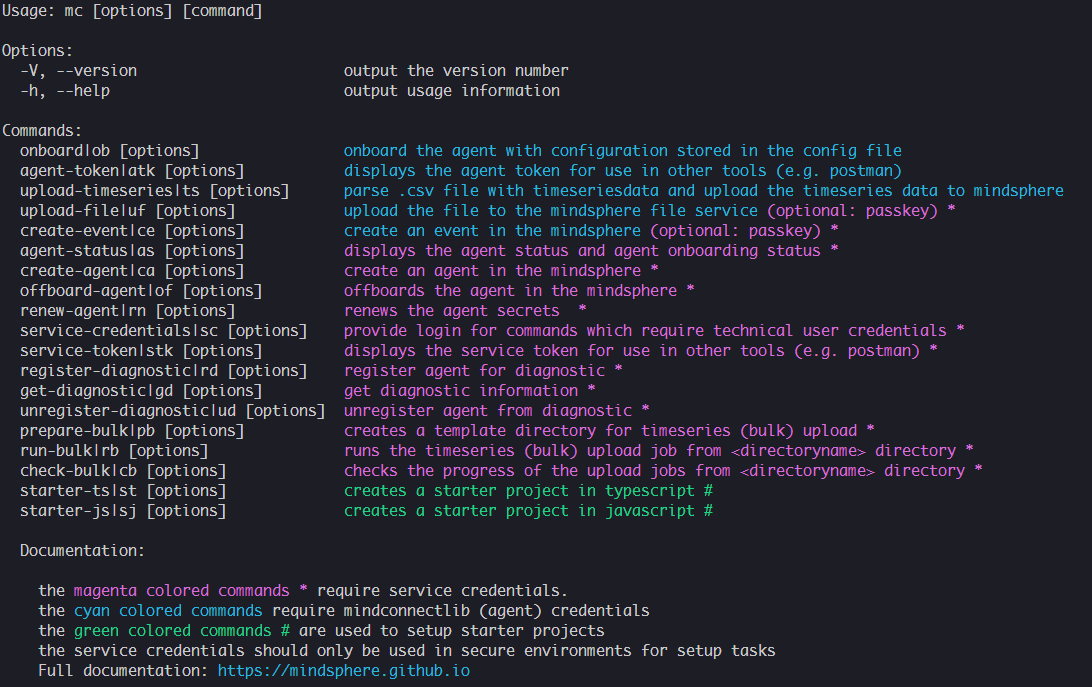
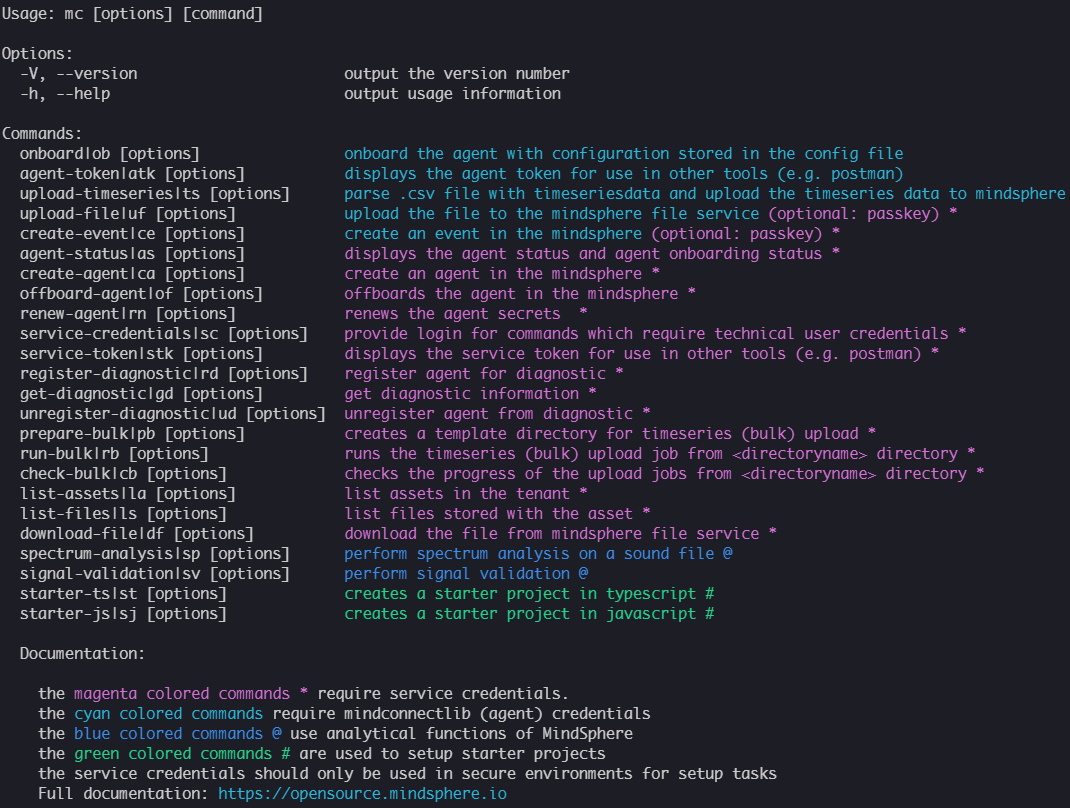
chore(release): 3.6.0 release 🎶 🎉 (#72)
* chore: new picture for readme.md

* chore(legal):  added api notice

* chore(release): 3.6.0 release :notes: :tada:

diff --git a/CHANGELOG.md b/CHANGELOG.md
@@ -2,22 +2,27 @@
 
 ## 3.6.0 - (Cobalt Blue Vienna) - July 2019
 
-- shrinked all images
-- upgraded all dependencies
-- made all tests (also agents) self contained
+- SDK: The SDK in this package is stil only a **preliminary version** which is used to provide support for the CLI.
 - SDK: added IotTimeSeriesAggregateClient to the SDK
 - SDK: added SpectrumAnalysisClient to the SDK
 - SDK: added SignalValidationClient to the SDK
-- CLI Command: mc spectrum-analysis: performs spectrum analysis on a sound file
-- CLI Command: mc signal-validation: performs signal validation on the mindsphere data
-- CLI Command: mc list-files: lists iot files stored with the asset
-- CLI Command: mc list-assets: lists assets in the tenant
-- CLI Command: mc download-file: downloads file from MindSphere iot file service
+- CLI Command: mc spectrum-analysis: performs spectrum analysis on a sound file (#40)
+- CLI Command: mc signal-validation: performs signal validation on the mindsphere data (#39)
+- CLI Command: mc list-files: lists iot files stored with the asset (#35)
+- CLI Command: mc list-assets: lists assets in the tenant (#35)
+- CLI Command: mc download-file: downloads file from MindSphere iot file service (#35)
 
-## Bugfix 3.6.0
+## Bugfixes and Improvements 3.6.0
 
-- SDK: IoTfile - GetFiles -  optional parameters are now in query string
+- SDK: IoTfile - GetFiles - optional parameters are now in query string (bugfix)
 - CLI - agent commands - precedence for location of the .mc directory:  path to agentconfig.json > currentdir > user home dir (#65)
+- All tests are now self-contained.
+- All images are now shrinked.
+- Bumped all dependencies. (including all lodash security updates until 7/14/2019)
+
+## Contributions 3.6.0 :heart: <3
+
+- Thanks to goko for the contribution and deniz for finding the bug #65.
 
 ## 3.5.3 - (Venetian Red Vienna) - May 2019 - Recovery
 

diff --git a/SIEMENSAPINOTICE.md b/SIEMENSAPINOTICE.md
@@ -1,0 +1,3 @@
+# Siemens API Notice
+
+This project has been released under an [Open Source license](./LICENSE.md). The release may include and/or use APIs to Siemens’ or third parties’ products or services. In no event shall the project’s Open Source license grant any rights in or to these APIs, products or services that would alter, expand, be inconsistent with, or supersede any terms of separate license agreements applicable to those APIs. “API” means application programming interfaces and their specifications and implementing code that allows other software to communicate with or call on Siemens’ or third parties’ products or services and may be made available through Siemens’ or third parties’ products, documentations or otherwise.
